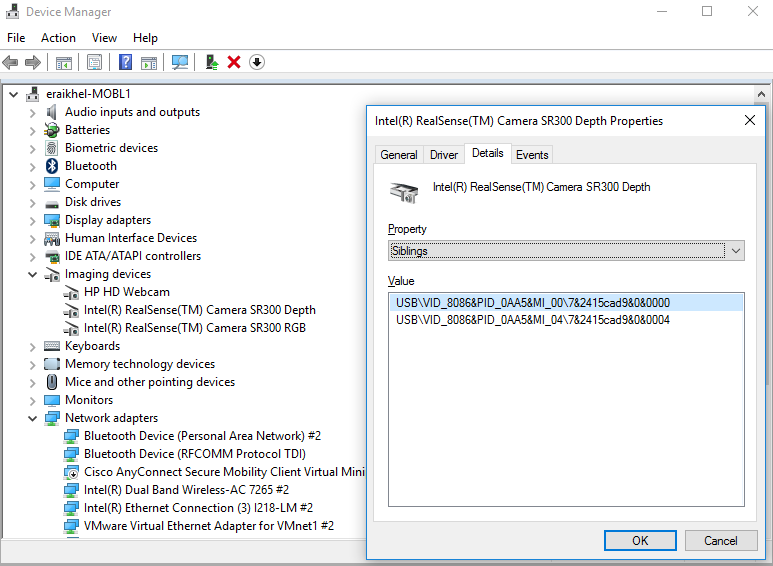
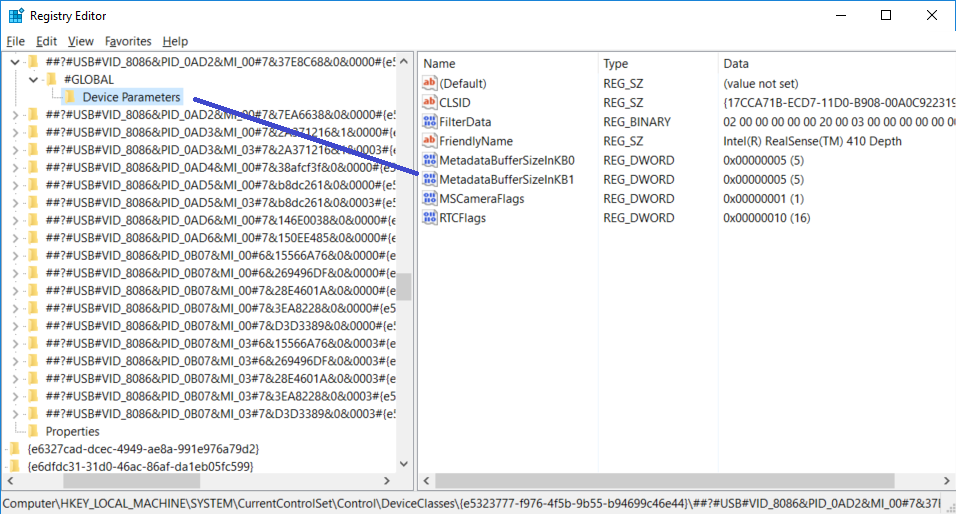
Provide PowerShell script to enable Metadata collection on Windows10 Tracked On: DSO-6850

diff --git a/doc/installation_windows.md b/doc/installation_windows.md
@@ -12,7 +12,7 @@ librealsense shall be built on Windows using [CMake](https://cmake.org/download/
 Don't forget to check `BUILD_EXAMPLES` if you wish to use librealsense samples.
 
 ## Windows 8.1:
-When working on Windows 8.1, make sure you have [KB3075872](https://support.microsoft.com/en-us/kb/3075872) and [KB2919355](https://support.microsoft.com/en-us/kb/2919355) installed. These patches are addressing issues with 8.1 video drivers, resolved in Windows 10.
+When working on Windows 8.1, make sure you have [KB3075872](https://support.microsoft.com/en-us/kb/3075872) and [KB2919355](https://support.microsoft.com/en-us/kb/2919355) installed. These patches are addressing issues specific to 8.1 video drivers, that were later resolved in Windows 10.
 
 ## Enabling metadata on Windows
 Metadata attributes is an advanced capability provided by librealsense.
@@ -21,13 +21,12 @@ Follow the instructions to enable metadata generation:
 
 Prerequisites:
 - Windows 10 with administrator login.
-- WinSDK ver 10 (10.0.15063)
+- WinSDK ver 10 (10.0.15063) or later.
 
 #### Installation:
 - Verify OS version:
  - Run `winver` command from desktop/terminal - "Version 1607" or later is expected.  
  ![winver](./img/winver_Win10.png)
-
 
 - Install WinSDK ver10:
  - Navigate to "Control Panel" -> "Programs and Features"
@@ -36,6 +35,16 @@ Prerequisites:
  ![winsdk](./img/WinSDK_10.0.10586.png)
 
 - Windows OS requires a dedicated registry entry to be present for each unique video device in order to provide metadata support:
+  - Launch Windows Powershell and navigate to the script directory
+  - `PS > .\realsense_metadata_win10.ps1 <operation:optional>`
+    The supported operations are
+    - `-op install` adds registry keys for connected Intel Realsense devices
+    - `-op install_all` adds keys for all RealSense devices logged in the registry
+    - `-op remove` removes registry keys for connected Intel Realsense devices
+    - `-op remove_all` removes the keys for all RealSense devices logged in the registry
+    Running the script without arguments will is similar to `-op install` operation  
+
+In case the script cannot be executed due to permissions, or other Host-related issue please follow the instructions to  update the registry manually:
   - Connect Intel® RealSense™ device to the host
   - Navigate to "Control Panel" -> "Device Manager"
   - Browse for Intel® RealSense™ devices
@@ -44,15 +53,18 @@ Prerequisites:
 
     ![win_dev_master_interface](./img/win_device_interface.png)
     ![win_dev_master_interface](./img/win_device_sibling_interfaces.png)
-- Modify Windows Registry:
-  - For each interface (Steps 2 and 3) perform
-    - Using Registry Editing tool such as "regedit" navigate to	`HKLM\SYSTEM\CurrentControlSet\Control\DeviceClasses\{e5323777-f976-4f5b-9b55-b94699c46e44}` branch (Step 1)
+
+
+- Modifying the Windows Registry:
+  - For each interface found (Steps 2 and 3) perform
+    - Using Registry Editing tool such as "regedit" navigate to	`HKLM\SYSTEM\CurrentControlSet\Control\DeviceClasses\{e5323777-f976-4f5b-9b55-b94699c46e44}` branch.
     - Browse into the subdirectory with the name identical to the `Device instance path` obtained from the previous step
-    - Expand the entry into `#GLOBAL` -> `Device Parameters` (Step 2)
-    - Add `DWORD 32bit` value named `MetadataBufferSizeInKB0` with value 4 (Step 3)  
+      - Expand the entry into `#GLOBAL` -> `Device Parameters`
+      - Add `DWORD 32bit` value named `MetadataBufferSizeInKB0` with value 5.
+      - Add an additional `DWORD 32bit` value named `MetadataBufferSizeInKB1` with value 5 for RS400 device zero interface `##?##USB#VID_8086&PID... **MI_00**..`
       ![win_md_reg_key](./img/win_md_reg_key.png)  
 
-    - Repeat the last two steps for   
+    - Repeat the previous step for   
       `HKLM\SYSTEM\CurrentControlSet\Control\DeviceClasses\{65E8773D-8F56-11D0-A3B9-00A0C9223196}` branch
 - Repeat the procedure for all the additional RealSense devices (e.g. `Intel® RealSense™ Camera SR300 RGB`)
 

diff --git a/doc/frame_metadata.md b/doc/frame_metadata.md
@@ -101,7 +101,7 @@ In order for `librealsense2` to get access for device-generated attributes the f
 The patches were also successfully ported to Yocto-based distribution and made available for Yocto Reference Kit based on Poky 2.1.2 with kernel version 4.4.26.
 
 ***Windows OS*** - Metadata extraction is supported by Microsoft starting with Windows10. Check [Windows installation  guide](./installation_windows.md) for details.  
-**Note** Extracting metadata attributes is currently available for all UVC stream except for Infrared.
+
 
 ## Metadata attributes in RS400 Devices
 The device firmware implements a custom metadata payload compatible with [Microsoft Extensions for UVC ](https://docs.microsoft.com/en-us/windows-hardware/drivers/stream/uvc-extensions-1-5) spec, and emits metadata attributes in the frame payload header.
